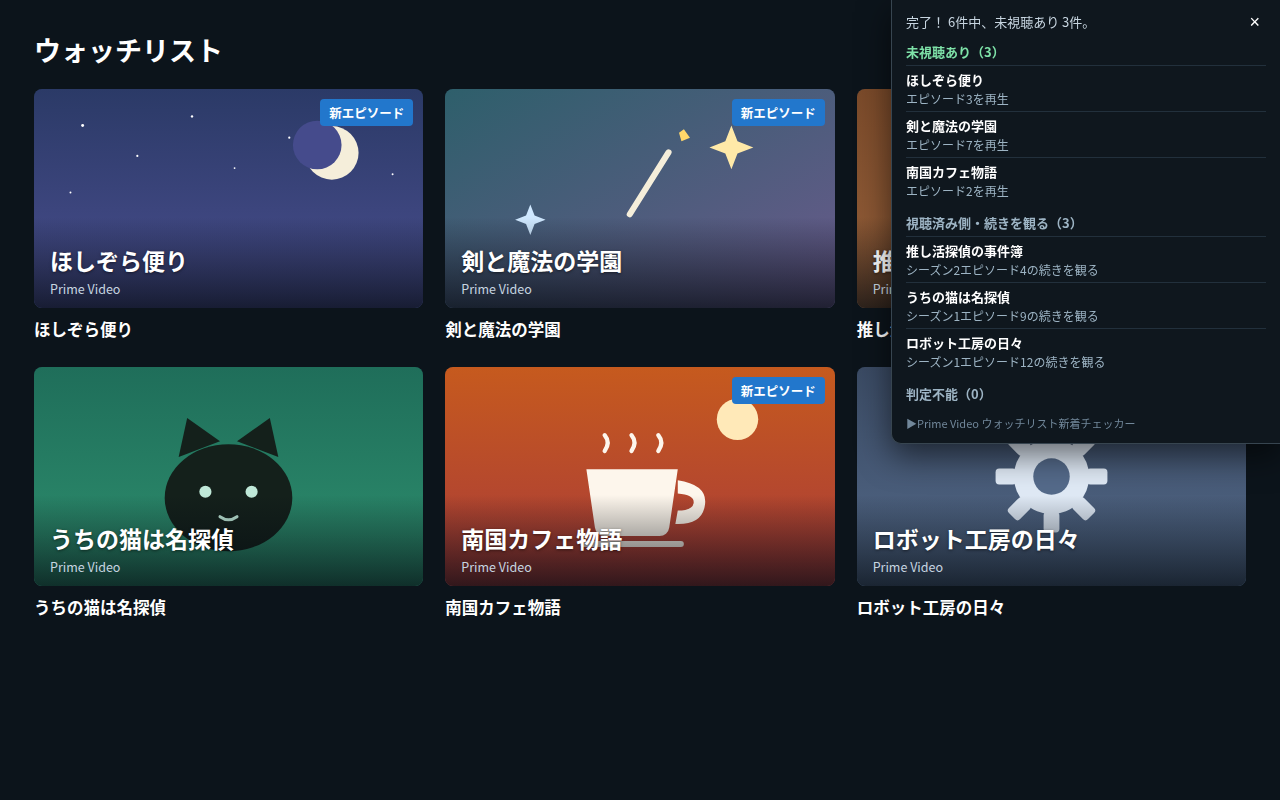
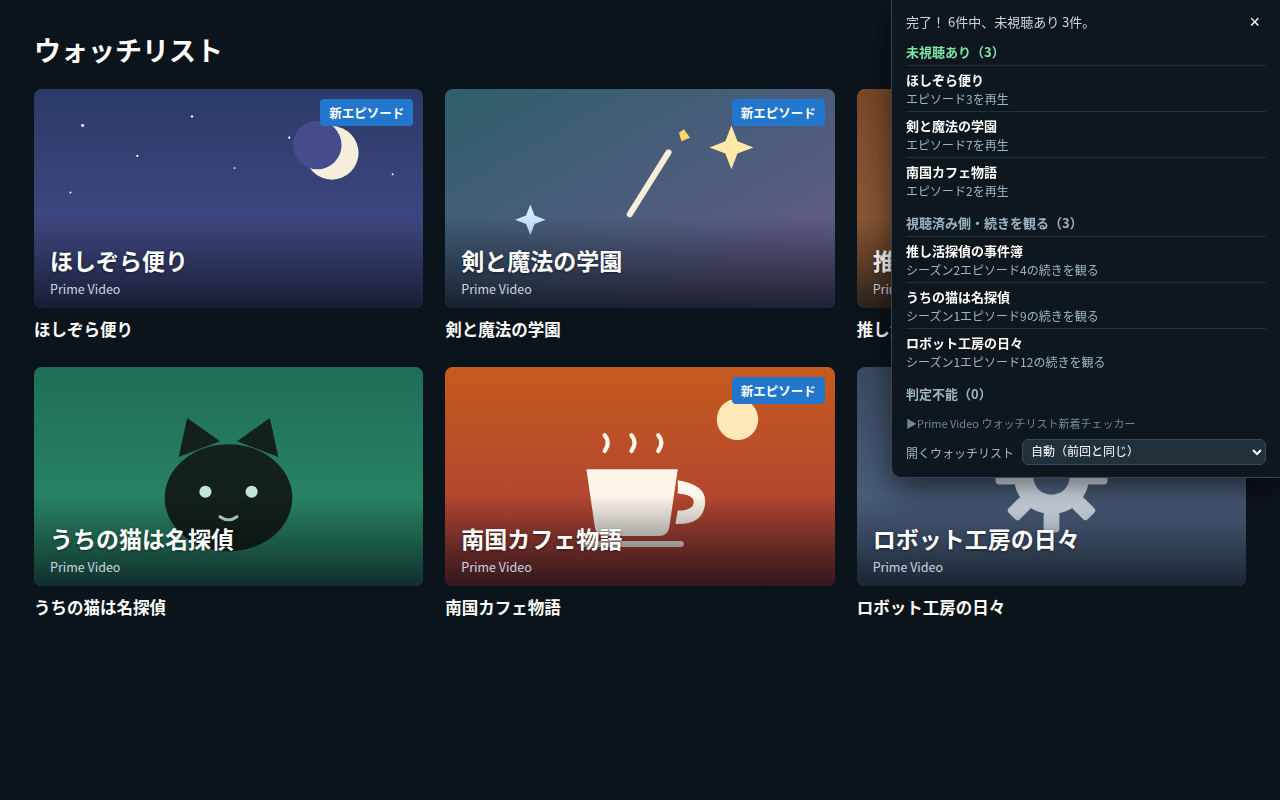
v1.2.9: add the surface select to the in-page panel too (shared pvSurfacePref); store display titles gain [JP/EN] in listing drafts (dashboard-side); retake screenshots JA/EN (4)

Changed region(s): [[0.6875, 0.5312, 1.0, 0.6562]]

diff --git a/content.js b/content.js
@@ -367,6 +367,7 @@
     let panel = document.getElementById(PANEL_ID);
     if (panel) {
       panel.style.display = panelHidden ? 'none' : '';
+      syncSurfaceSelect(panel);
       return panel;
     }
     panel = document.createElement('div');
@@ -384,15 +385,39 @@
       <div class="pv-section pv-resume"><h4>${msg('headingResume', ['0'])}</h4><ul></ul></div>
       <div class="pv-section pv-unknown"><h4>${msg('headingUnknown', ['0'])}</h4><ul></ul></div>
       <div class="pv-brand">▶${msg('appName')}</div>
+      <div class="pv-surface">
+        <label>${msg('surfaceLabel')}</label>
+        <select class="pv-surface-select">
+          <option value="auto">${msg('surfaceAuto')}</option>
+          <option value="cojp">amazon.co.jp</option>
+          <option value="com">amazon.com</option>
+          <option value="pv">primevideo.com</option>
+        </select>
+      </div>
     `;
     document.body.appendChild(panel);
     panel.querySelector('.pv-close').addEventListener('click', () => closePanel());
     panel.querySelector('.pv-cancel').addEventListener('click', () => { cancelRequested = true; });
     // 診断ログボタンは当面非表示（ユーザー要望）。保存機能自体は残してあり、必要になったら表示に戻す
     panel.querySelector('.pv-log').addEventListener('click', downloadDebugLog);
+    // 開くサイトの選択（v1.2.9でパネルにも追加。ポップアップと同じ pvSurfacePref を共有する）
+    const surfaceSel = panel.querySelector('.pv-surface-select');
+    surfaceSel.addEventListener('change', () => {
+      chrome.storage.local.set({ pvSurfacePref: surfaceSel.value }).catch(() => {});
+    });
+    syncSurfaceSelect(panel);
     setPanelRunning(false);
     panel.style.display = panelHidden ? 'none' : '';
     return panel;
+  }
+
+  // パネルの選択ボックスに保存済みの設定を反映する（ポップアップ側で変えた場合も追随させる）
+  function syncSurfaceSelect(panel) {
+    const sel = panel.querySelector('.pv-surface-select');
+    if (!sel) return;
+    chrome.storage.local.get('pvSurfacePref').then((d) => {
+      if (d.pvSurfacePref) sel.value = d.pvSurfacePref;
+    }).catch(() => {});
   }
 
   // パネルを閉じる（隠す）。巡回中に閉じても巡回は裏で続き、結果はポップアップで見られる。

diff --git a/content.css b/content.css
@@ -46,3 +46,6 @@
 #pv-checker-panel li a:hover { text-decoration: underline; }
 #pv-checker-panel .pv-cta { display: block; color: #9db4c4; font-size: 12px; margin-top: 1px; }
 #pv-checker-panel .pv-brand { font-size: 11px; color: #71879a; margin-top: 12px; white-space: nowrap; }
+#pv-checker-panel .pv-surface { display: flex; align-items: center; gap: 8px; margin-top: 8px; font-size: 12px; color: #9db4c4; }
+#pv-checker-panel .pv-surface label { white-space: nowrap; }
+#pv-checker-panel .pv-surface-select { flex: 1; min-width: 0; background: #22303c; color: #fff; border: 1px solid #3a4a58; border-radius: 6px; padding: 4px; font-size: 12px; }

diff --git a/CHANGELOG.md b/CHANGELOG.md
@@ -2,6 +2,8 @@
 
 「Prime Video ウォッチリスト新着チェッカー」の変更履歴です。新しい順に並んでいます。
 
+- **v1.2.9**（2026-11-05、検証用・未公開）: 「開くウォッチリスト」の選択ボックスを、ポップアップに加えて結果パネル（ページ内表示）の最下部にも追加。ポップアップと同じ設定（pvSurfacePref）を共有し、どちらで変更しても次回のチェック開始時に反映される
+
 - **v1.2.8**（2026-11-05、検証用・未公開）: v1.2.7 の不具合修正。明示設定（開くウォッチリスト）が新規タブを開く場合にしか効いておらず、別面のウォッチリストタブが開いていると設定を無視してそのタブを再利用していた（例: primevideo.com でチェックした後に amazon.co.jp を選んでも primevideo.com が開く）。明示設定をタブの再利用・Prime Video タブの誘導にも優先させ、選んだ面のタブだけを使うようにした。あわせて選択ボックスをポップアップ最下部（ブランド表記より下）へ移動
 
 - **v1.2.7**（2026-11-05、検証用・未公開）: チェック開始時に開く面の決め方を3層化。amazon.com と primevideo.com は同じアカウントへの入口違いで、利用者が普段どちらを使っているかは判定できないため、(1) 前回チェックした面を既定で再利用する（primevideo.com は地域つき URL で復元）、(2) 記録が無い初回だけブラウザ表示言語で推測する（日本語→amazon.co.jp、それ以外→amazon.com）、(3) ポップアップに「開くウォッチリスト」の選択ボックス（自動／amazon.co.jp／amazon.com／primevideo.com）を追加し、明示指定できるようにした。primevideo.com を選んで地域の記録が無い場合は初回案内をポップアップに表示し、開始時は primevideo.com のトップを開く（Watchlist へ進んだ時点で保留中のチェックが自動開始する）。タブが既にある場合の再利用ロジックは従来通り

diff --git a/STORE_LISTING_EN.md b/STORE_LISTING_EN.md
@@ -4,9 +4,10 @@ English listing texts for "Prime Video Watchlist New Episode Checker", for entry
 
 How to apply: in the Developer Dashboard's Store listing page, use the language selector at the top to add "English" and paste these texts. The extension package itself already ships `_locales/en`, so its name/description/UI follow the browser's display language automatically.
 
-## Item name (matches manifest `name` in the en locale)
+## Item name
 
-Prime Video Watchlist New Episode Checker
+- Store display title (set in the dashboard's title field): Prime Video Watchlist New Episode Checker [JP/EN]
+- Manifest name (the extension's own name): Prime Video Watchlist New Episode Checker (no [JP/EN] suffix; only the store display title differs)
 
 ## Summary (matches manifest `description` in the en locale)
 
@@ -31,7 +32,7 @@ Each title is classified by the play-button label shown when you hover over it:
 
 ■ How to use
 1. Sign in to a supported site (amazon.co.jp, amazon.com, or primevideo.com) and press "Check my watchlist" from the extension icon
-2. The watchlist tab opens and the scan starts automatically (about 1 second per title). You can choose which site to open with the "Watchlist to open" selector at the bottom of the popup (default: Auto = the site you checked last time)
+2. The watchlist tab opens and the scan starts automatically (about 1 second per title). You can choose which site to open with the "Watchlist to open" selector at the bottom of the popup or the results panel (default: Auto = the site you checked last time)
 3. Results appear in a panel on the page and in the extension popup, grouped into "Has unwatched episodes", "Started / Resume", and "Couldn't tell"
 4. Click a title to go straight to its page
 

diff --git a/README.md b/README.md
@@ -29,7 +29,7 @@ Distill Web Monitor のようなページ監視ツールはこのホバー表示
 1. 対応サイト（amazon.co.jp / amazon.com / primevideo.com のいずれか）にログインしておく
 2. 拡張アイコンをクリックしてポップアップを開き、「ウォッチリストをチェック」を押す
    - ウォッチリストのタブが開いて（または前面化して）、自動で巡回が始まります
-   - 開くサイトはポップアップ最下部の「開くウォッチリスト」で変更できます（既定は「自動」＝前回チェックしたサイト。初回はブラウザの表示言語から推測します）
+   - 開くサイトはポップアップ最下部と結果パネルの「開くウォッチリスト」で変更できます（既定は「自動」＝前回チェックしたサイト。初回はブラウザの表示言語から推測します）
 3. 巡回中はウォッチリストページの右上にパネルが出て、進捗と結果がリアルタイムで増えていきます
    - 巡回は上から下へスクロールしながら1作品ずつホバーを再現します。作品数によりますが、1作品あたり約0.7〜2.5秒かかります（ホバーに反応がない作品は約1.2秒で見切ります）
    - 終了するとページは自動で最上部に戻ります
